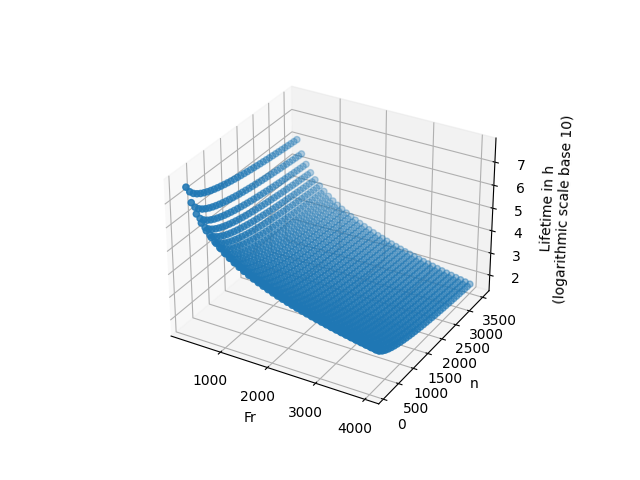
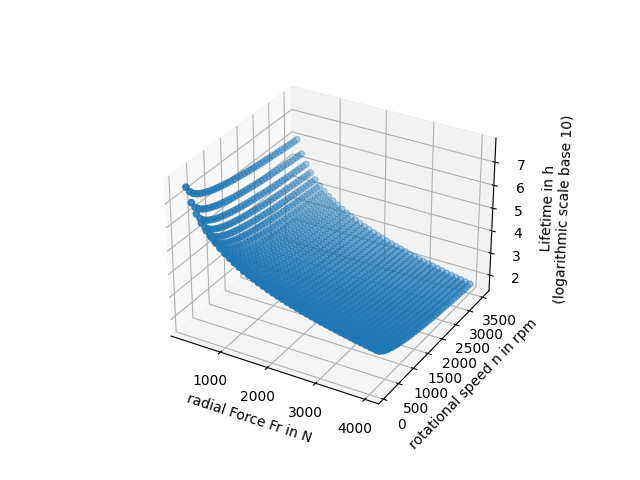
added physical values

diff --git a/deep_groove_project/src/first_eda/first_eda.py b/deep_groove_project/src/first_eda/first_eda.py
@@ -44,8 +44,8 @@ def show_3d_scatter(df):
     lifetime = df.iloc[:, 2]
 
     ax.scatter(fr, n, np.log10(lifetime))
-    ax.set_xlabel('Fr')
-    ax.set_ylabel('n')
+    ax.set_xlabel('radial Force Fr in N')
+    ax.set_ylabel('rotational speed n in rpm')
     ax.set_zlabel('\n Lifetime in h \n(logarithmic scale base 10)')
     plt.show()
 
